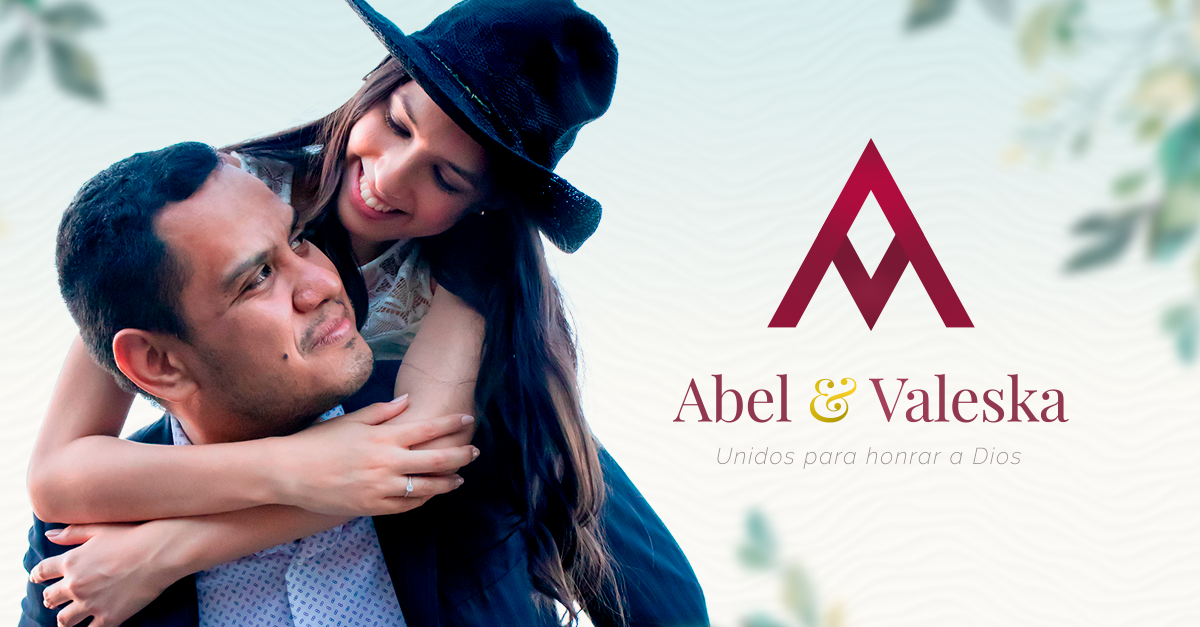
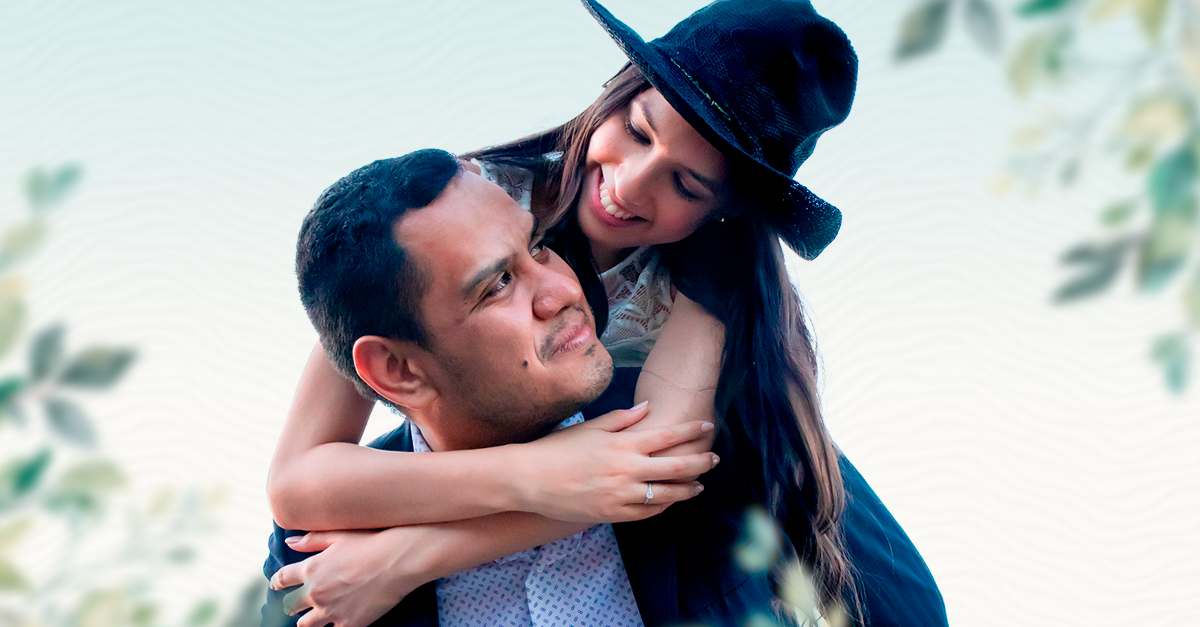
fix thumbnail

diff --git a/public/index.html b/public/index.html
@@ -11,7 +11,7 @@
     />
     <meta property="og:title" content="Abel y Valeska - Unidos para honrar a Dios" />
     <meta property="og:url" content="%PUBLIC_URL%"/>
-    <meta property="og:image" content="%PUBLIC_URL%/thumbnail.jpg" />
+    <meta property="og:image" content="%PUBLIC_URL%/thumbnail.png" />
     <meta
         property="og:description"
         content="Una noticia muy importante."
